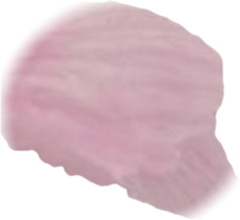
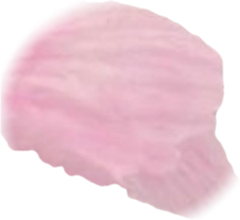
motion: brighter, larger petal; final tuning

diff --git a/components/motion/MotionLab.tsx b/components/motion/MotionLab.tsx
@@ -122,7 +122,7 @@ export function MotionLab() {
         title="A single drifting petal"
         note="A real petal from the owner's photograph. It tumbles on an arc with air drag. Move the pointer near it, or tap to flick it."
         simple={<div className="relative h-[210px] w-full overflow-hidden"><span className="lab-fall absolute left-1/3 top-0 h-5 w-5 rounded-full bg-[#e9b9c6]" /></div>}
-        crafted={<DriftingPetal width={54} className="h-[210px] w-full" />}
+        crafted={<DriftingPetal width={68} className="h-[210px] w-full" />}
       />
 
       <Pair
